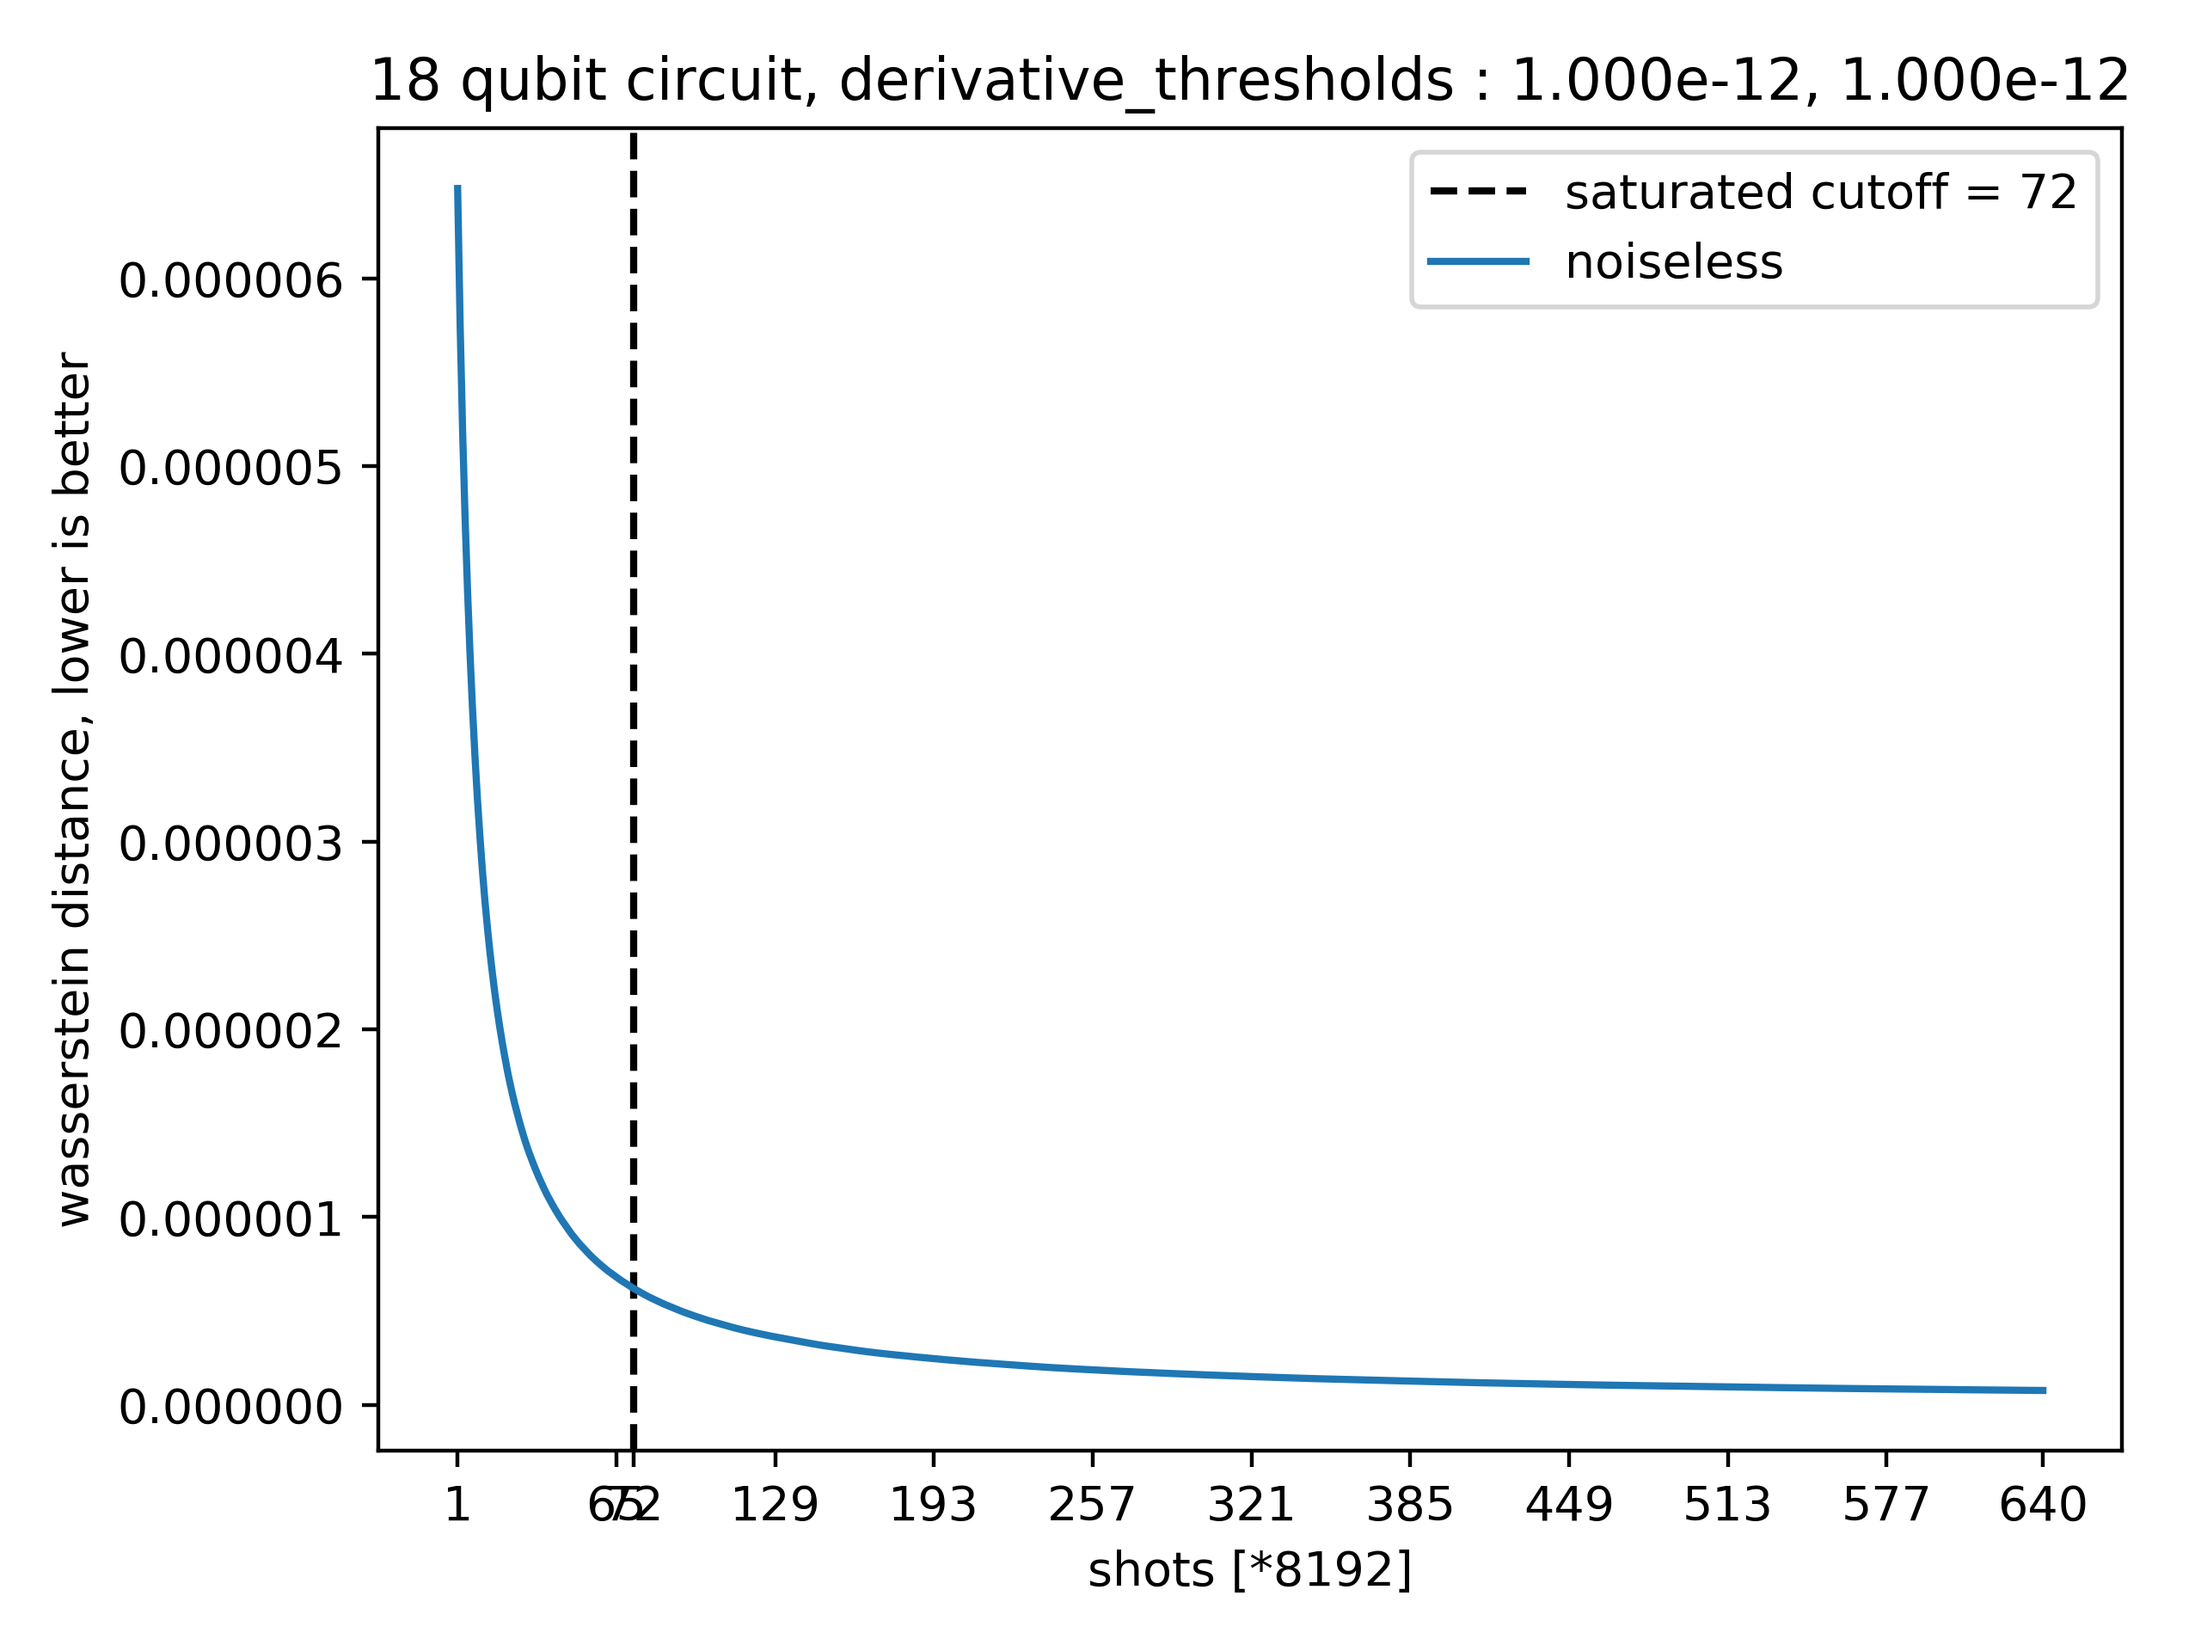
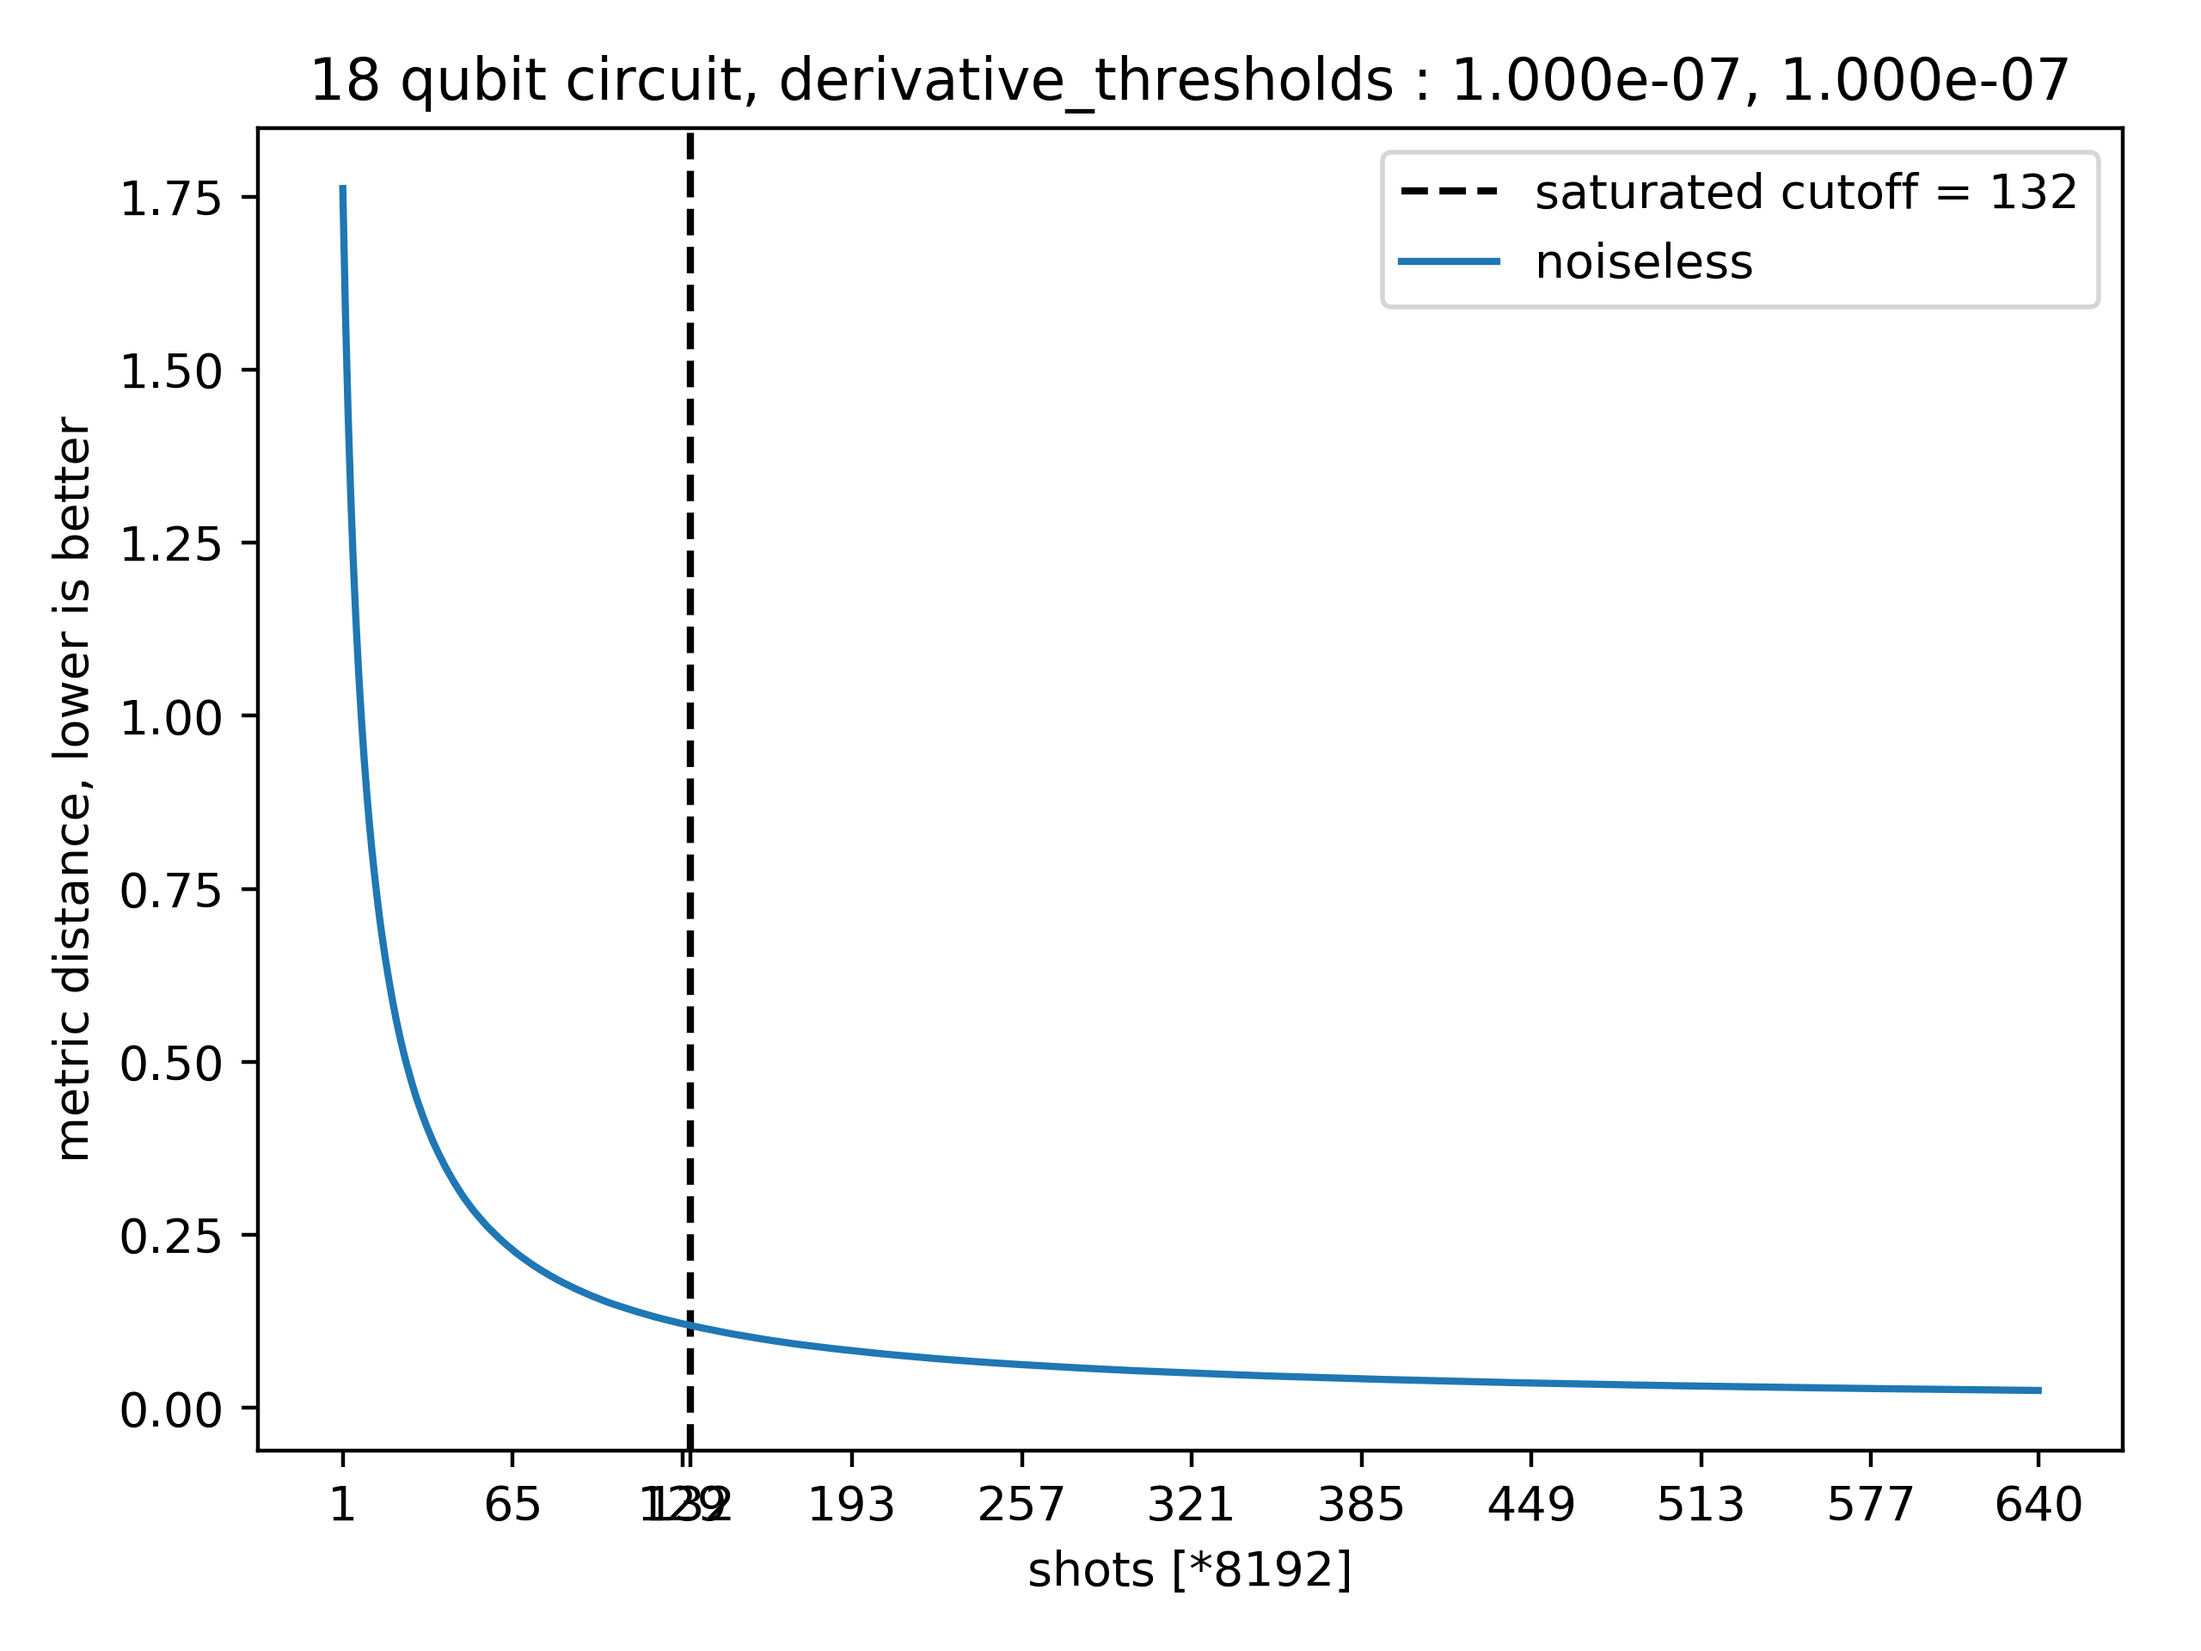
running on hw

diff --git a/decay/analyze.py b/decay/analyze.py
@@ -25,7 +25,7 @@ def make_plot(metric_l,cutoff,full_circ_size,shots_increment,derivative_threshol
     x_ticks = get_xticks(xvals=xvals,compulsory=cutoff)
     plt.xticks(ticks=x_ticks,labels=x_ticks)
     # plt.ylabel('\u03C7^2, lower is better')
-    plt.ylabel('wasserstein distance, lower is better')
+    plt.ylabel('metric distance, lower is better')
     plt.xlabel('shots [*%d]'%shots_increment)
     plt.title('%d qubit circuit, derivative_thresholds : %.3e, %.3e'%(full_circ_size,first_derivative_threshold,second_derivative_threshold))
     plt.legend()
@@ -58,8 +58,8 @@ if __name__ == '__main__':
         chi2_l = decay_dict[full_circ_size]['chi2_l']
         distance_l = decay_dict[full_circ_size]['distance']
         metric_l = []
-        for distance in distance_l:
-            metric_l.append(distance)
+        for chi2 in chi2_l:
+            metric_l.append(chi2)
         shots_increment = decay_dict[full_circ_size]['shots_increment']
         cutoff, first_derivative, second_derivative = find_saturation(metric_l=metric_l,derivative_thresholds=(args.first_derivative,args.second_derivative),shots_increment=shots_increment)
         print('%d qubit circuit, cutoff = %d, metric = %.3f, first derivative = %.3e, second derivative = %.3e'%(full_circ_size,cutoff,metric_l[cutoff],first_derivative,second_derivative),flush=True)

diff --git a/utils/mitigation.py b/utils/mitigation.py
@@ -8,17 +8,6 @@ from qiskit.ignis.mitigation.measurement import tensored_meas_cal
 from utils.schedule import Scheduler
 from qiskit.compiler import transpile
 
-def break_state(bin_state,mit_pattern):
-    start_idx = 0
-    bin_state_parts = []
-    for qubit_group in mit_pattern:
-        end_idx = start_idx + len(qubit_group)
-        bin_state_part = bin_state[start_idx:end_idx]
-        bin_state_parts.append(bin_state_part)
-        start_idx = end_idx
-    assert sum([len(x) for x in bin_state_parts]) == len(bin_state)
-    return bin_state_parts
-
 class TensoredMitigation:
     def __init__(self,circ_dict,device_name):
         self.circ_dict = copy.deepcopy(circ_dict)
